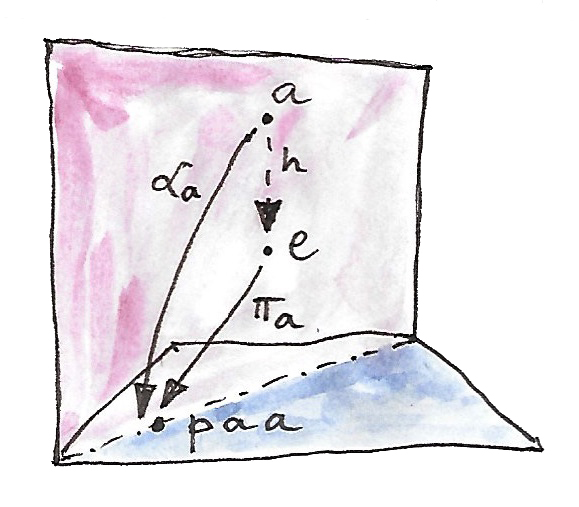
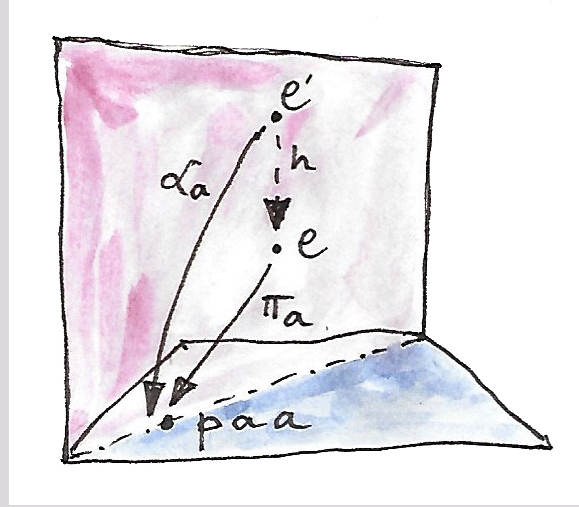
fix: "a" for apex and "a" for p a a should be different

diff --git a/src/content/3.10/ends-and-coends.tex b/src/content/3.10/ends-and-coends.tex
@@ -139,8 +139,8 @@ Or, using Haskell notation:
 We can now proceed with the universal construction and define the end of
 $p$ as the universal wedge --- a set $e$ together with a
 family of functions $\pi$ such that for any other wedge with the
-apex $a$ and a family $\alpha$ there is a unique function
-$h \Colon a \to e$ that makes all triangles commute:
+apex $e'$ and a family $\alpha$ there is a unique function
+$h \Colon e' \to e$ that makes all triangles commute:
 \[\pi_a \circ h = \alpha_a\]
 
 \begin{figure}[H]
